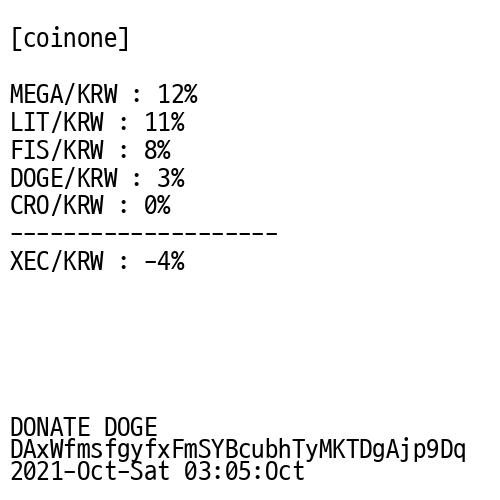
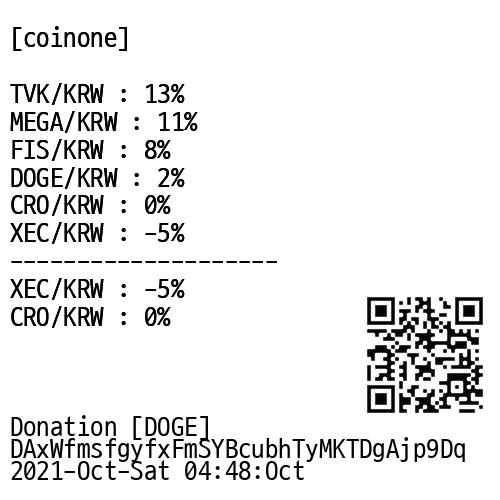
qr 추가

diff --git a/process/image.php b/process/image.php
@@ -11,11 +11,15 @@ function createImg(string $text, string $root, string $filename) {
     // Replace path by your own font path
     $font = "$root/process/D2Coding-Ver1.3-20171129.ttf";
     // Add some shadow to the text
-    imagettftext($im, 20, 0, 10, 436, $black, $font, "DONATE DOGE");
+    imagettftext($im, 20, 0, 10, 436, $black, $font, "Donation [DOGE]");
     imagettftext($im, 20, 0, 10, 458, $black, $font, "DAxWfmsfgyfxFmSYBcubhTyMKTDgAjp9Dq");
     imagettftext($im, 20, 0, 10, 480, $black, $font, date('Y-M-D H:i:M'));
     // Add the text
     imagettftext($im, 20, 0, 10, 20, $black, $font, $text);
+    imagettftext($im, 20, 0, 10, 20, $black, $font, $text);
+    $QR  = imagecreatefrompng("$root/process/dogeQR.png");
+    imagecopymerge($im,$QR,350,280,0,0,150,150,100);
+
     if ($im !== false) {
         // Using imagepng() results in clearer text compared with imagejpeg()
         imagejpeg($im, "$root/process/temp/$filename.jpg");
